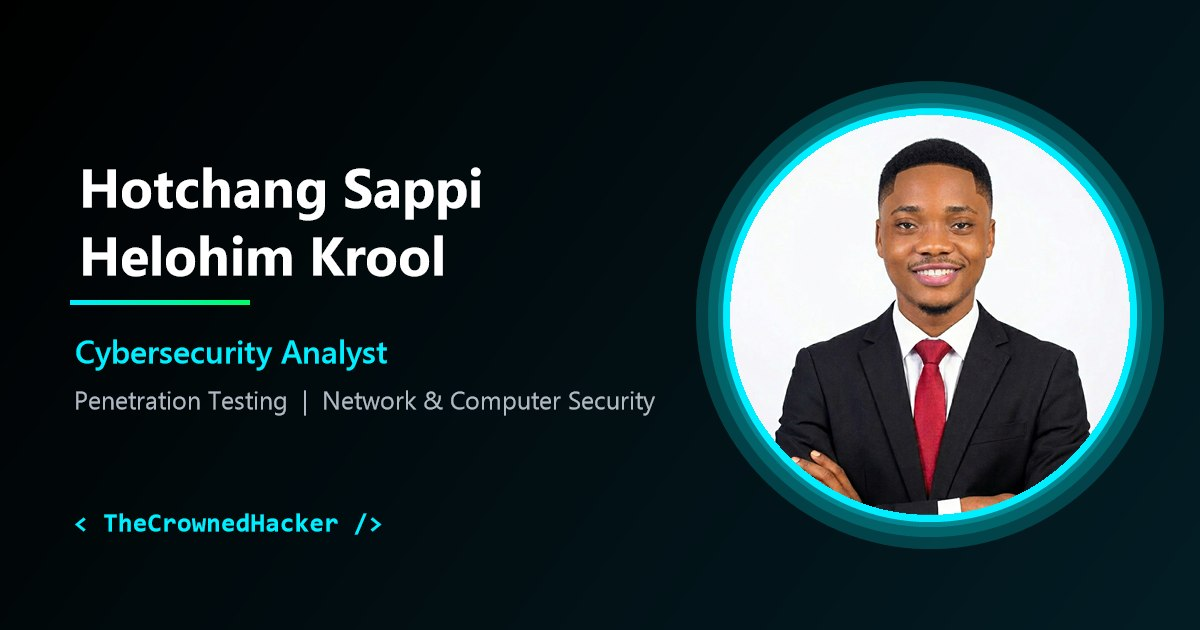
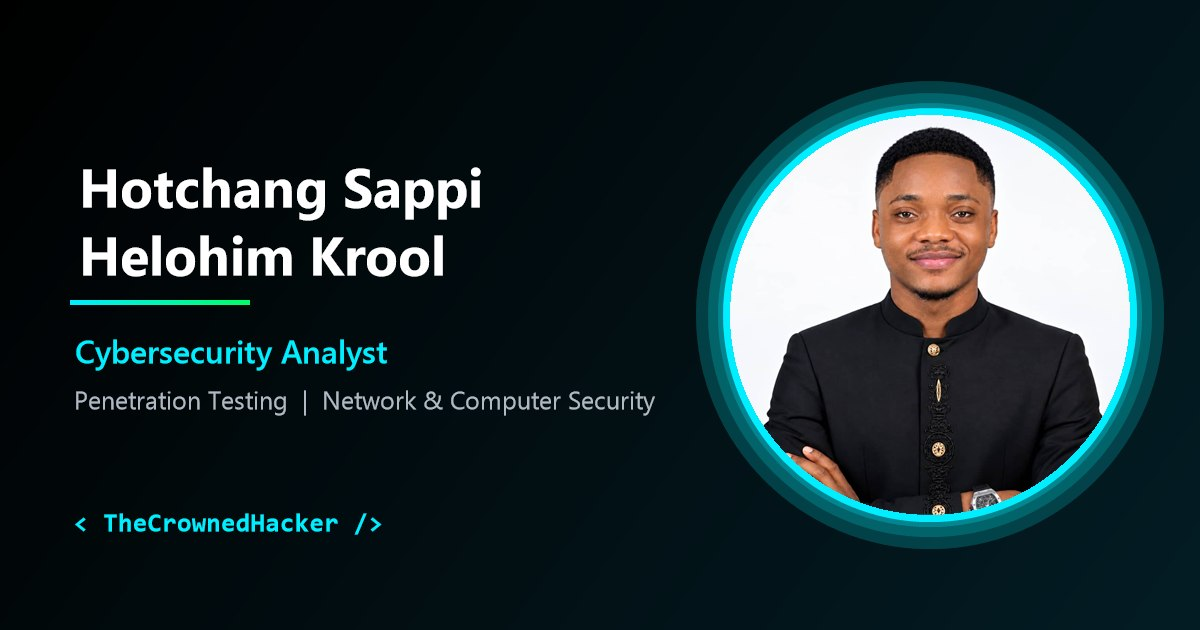
Ajoute des certifications, change la photo et l'intitulé du diplôme
Certifications :
- ajoute « Junior Pentester » (sans organisme) et « Junior Ethical
  Hacker » (Cisco NetAcad)
- renomme le CCSC en « Certified Cybersecurity Starter Career (CCSC) »
- corrige la faute « Acess » en « Access » (CC domaine 3)
- centre le titre des cartes sans ligne d'organisme

Photo :
- remplace la photo du hero (deux JPEG recadrés, 16 Ko et 49 Ko)
- régénère l'image d'aperçu des liens avec la nouvelle photo
- met à jour le texte alternatif de la photo

Hero :
- remplace « Student in Network and Computer Security » par
  « Bachelor Degree in Computer and Network Security »

Changed region(s): [[0.6167, 0.181, 0.925, 0.8143]]

diff --git a/index.html b/index.html
@@ -101,7 +101,7 @@
             <div class="hero-content">
                 <div class="hero-text">
                     <h1>Hotchang Sappi Helohim Krool</h1>
-                    <p class="hero-role">Student in Network and Computer Security | Information Security Analyst | Certified Cybersecurity | Penetration Tester</p>
+                    <p class="hero-role">Bachelor Degree in Computer and Network Security | Information Security Analyst | Certified Cybersecurity | Penetration Tester</p>
                     <p>Welcome to my cybersecurity portfolio. I'm passionate about red and blue teaming and penetration testing.</p>
                     <div class="cta-buttons">
                         <a href="#contact" class="btn primary-btn">Contact me</a>
@@ -123,7 +123,7 @@
                          sizes="(max-width: 900px) 280px, 350px"
                          width="800" height="800"
                          fetchpriority="high" decoding="async"
-                         alt="Portrait of Hotchang Sappi Helohim Krool in a dark suit and red tie" class="profile-pic">
+                         alt="Portrait of Hotchang Sappi Helohim Krool in a black jacket with gold buttons" class="profile-pic">
                 </div>
             </div>
         </div>
@@ -338,7 +338,7 @@
                         <i class="fas fa-shield-alt" aria-hidden="true"></i>
                     </div>
                     <div class="certification-content">
-                        <h3>Certified Cybersecurity (CC) Domain 3 : Acess Control Concepts</h3>
+                        <h3>Certified Cybersecurity (CC) Domain 3 : Access Control Concepts</h3>
                         <p>ISC2</p>
                     </div>
                 </div>
@@ -383,8 +383,25 @@
                         <i class="fas fa-network-wired" aria-hidden="true"></i>
                     </div>
                     <div class="certification-content">
-                        <h3>Cybersecurity Career Starter Certification (CCSC)</h3>
+                        <h3>Certified Cybersecurity Starter Career (CCSC)</h3>
                         <p>Hack & Fix</p>
+                    </div>
+                </div>
+                <div class="certification-card">
+                    <div class="certification-logo">
+                        <i class="fas fa-user-secret" aria-hidden="true"></i>
+                    </div>
+                    <div class="certification-content">
+                        <h3>Junior Pentester</h3>
+                    </div>
+                </div>
+                <div class="certification-card">
+                    <div class="certification-logo">
+                        <i class="fas fa-user-ninja" aria-hidden="true"></i>
+                    </div>
+                    <div class="certification-content">
+                        <h3>Junior Ethical Hacker</h3>
+                        <p>Cisco NetAcad</p>
                     </div>
                 </div>
             </div>

diff --git a/style.css b/style.css
@@ -892,6 +892,11 @@ nav {
     margin-bottom: 5px;
 }
 
+/* A card without an issuer line keeps its title vertically centred */
+.certification-content h3:last-child {
+    margin-bottom: 0;
+}
+
 .certification-content p {
     color: var(--text-muted);
     font-size: var(--fs-xs);
